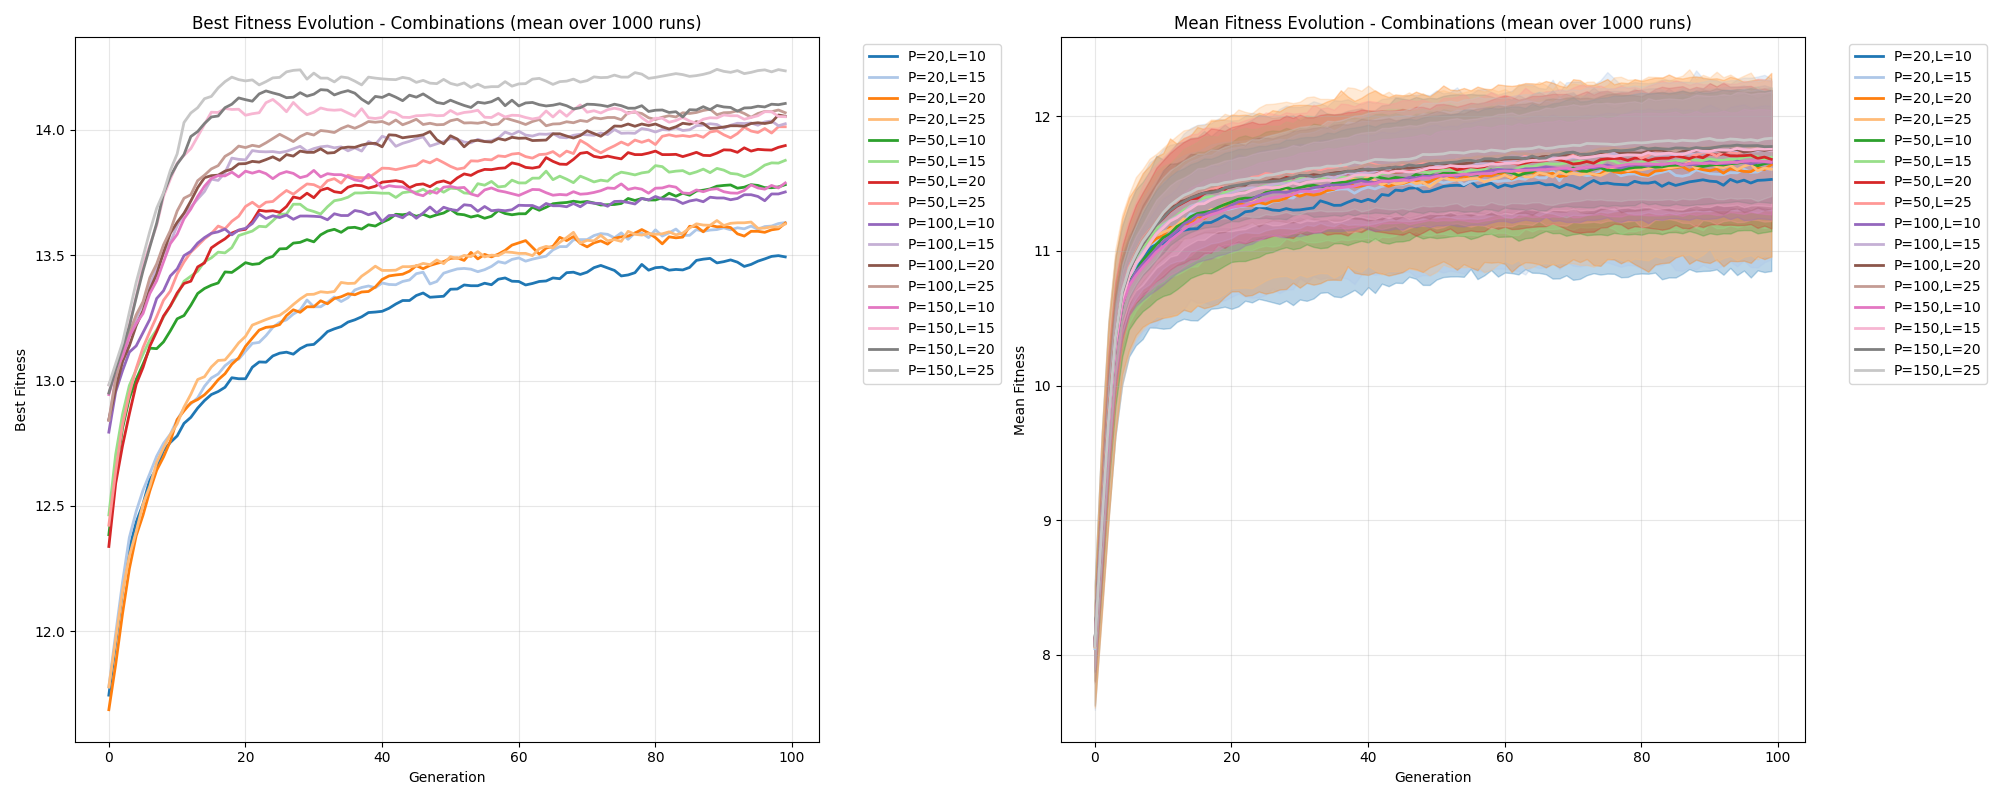
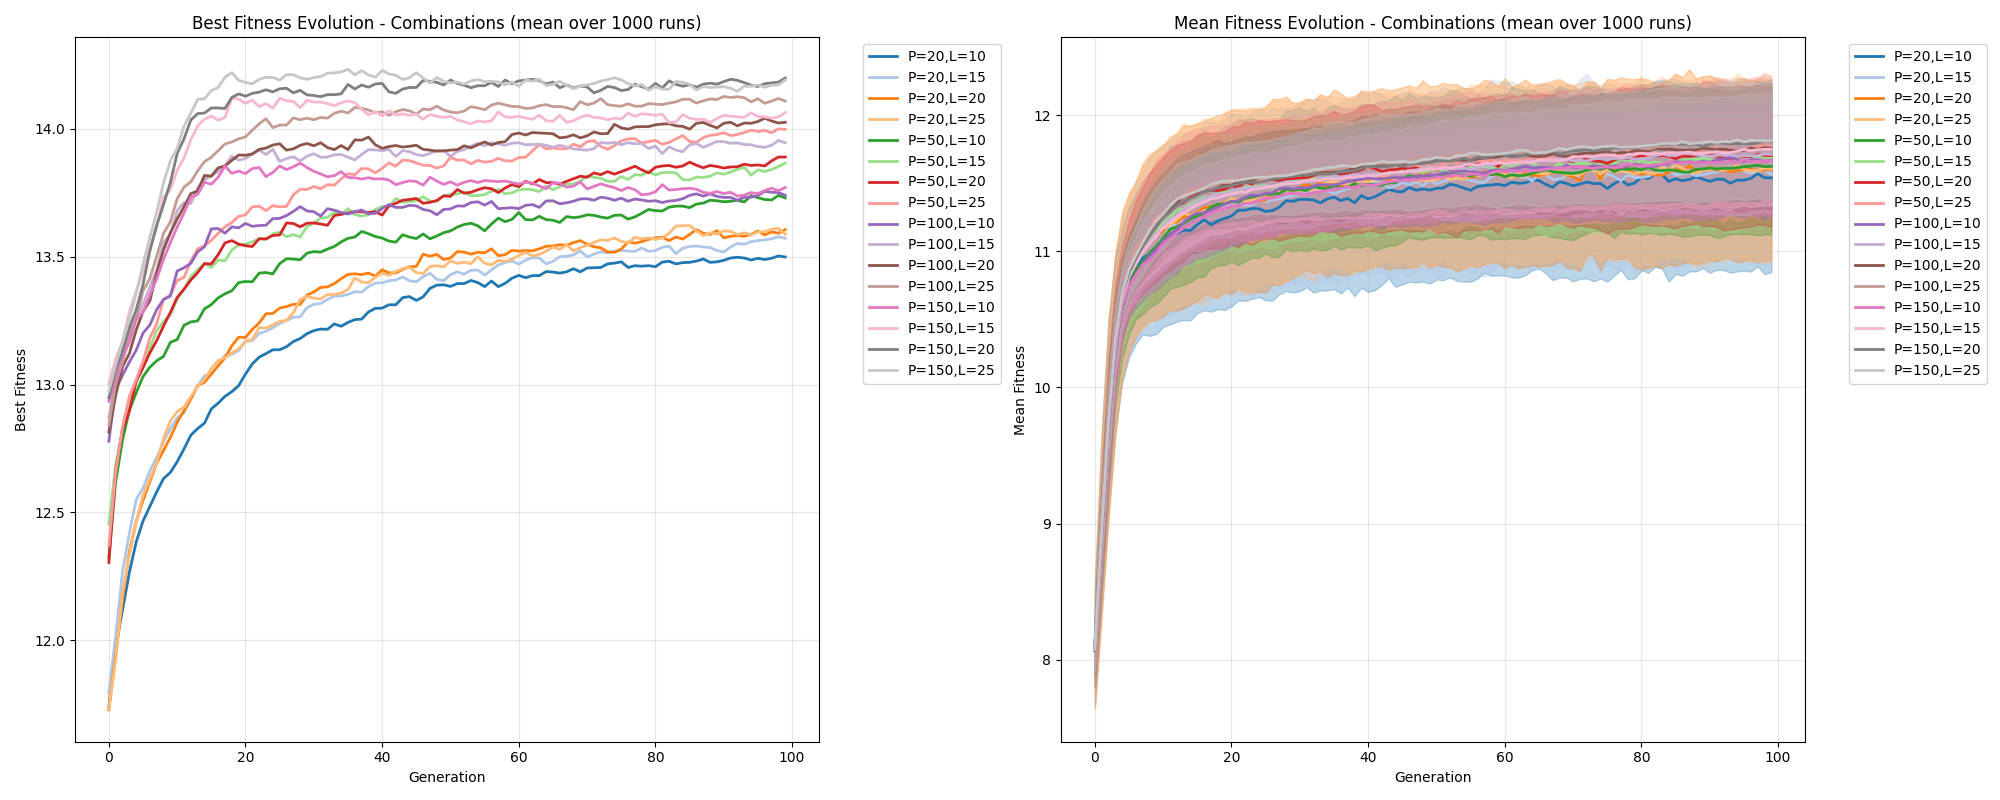
Backup

diff --git a/factorized.py b/factorized.py
@@ -470,7 +470,7 @@ def plot_population_program_combinations(all_results):
     sample_count = next(iter(all_results.values()))['num_samples']
     
     # Define specific population sizes and program lengths to compare
-    target_pop_sizes = [20, 50, 100, 150]
+    target_pop_sizes = [20, 50, 80, 100, 150]
     target_prog_lengths = [10, 15, 20, 25]
     
     # Color map for better visualization
